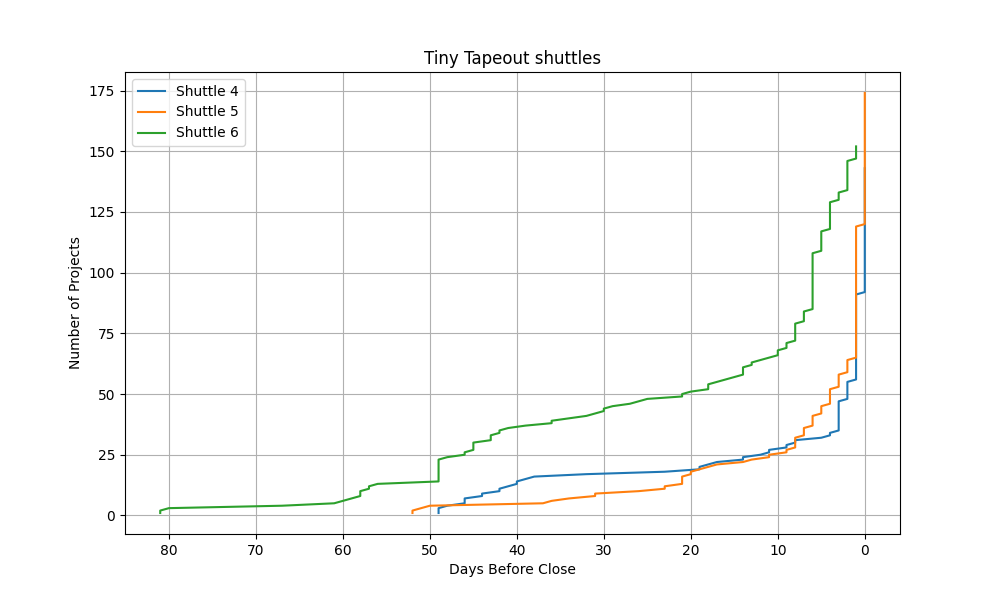
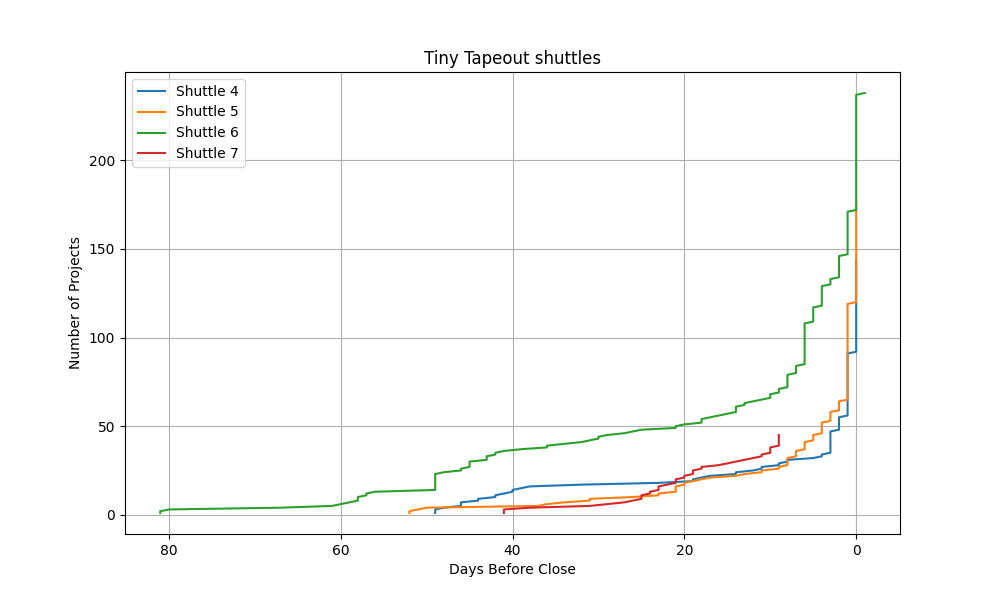
update with tt07

diff --git a/parse.py b/parse.py
@@ -5,7 +5,7 @@ import matplotlib.pyplot as plt
 df = pd.read_csv('data.csv')
 
 # Add deadlines for each shuttle
-shuttle_deadlines = {4: "2023-09-08", 5: "2023-11-04", 6: "2024-04-19"}
+shuttle_deadlines = {4: "2023-09-08", 5: "2023-11-04", 6: "2024-04-19", 7: "2024-06-01"}
 
 # Convert deadlines to datetime objects
 for shuttle_id, deadline in shuttle_deadlines.items():
